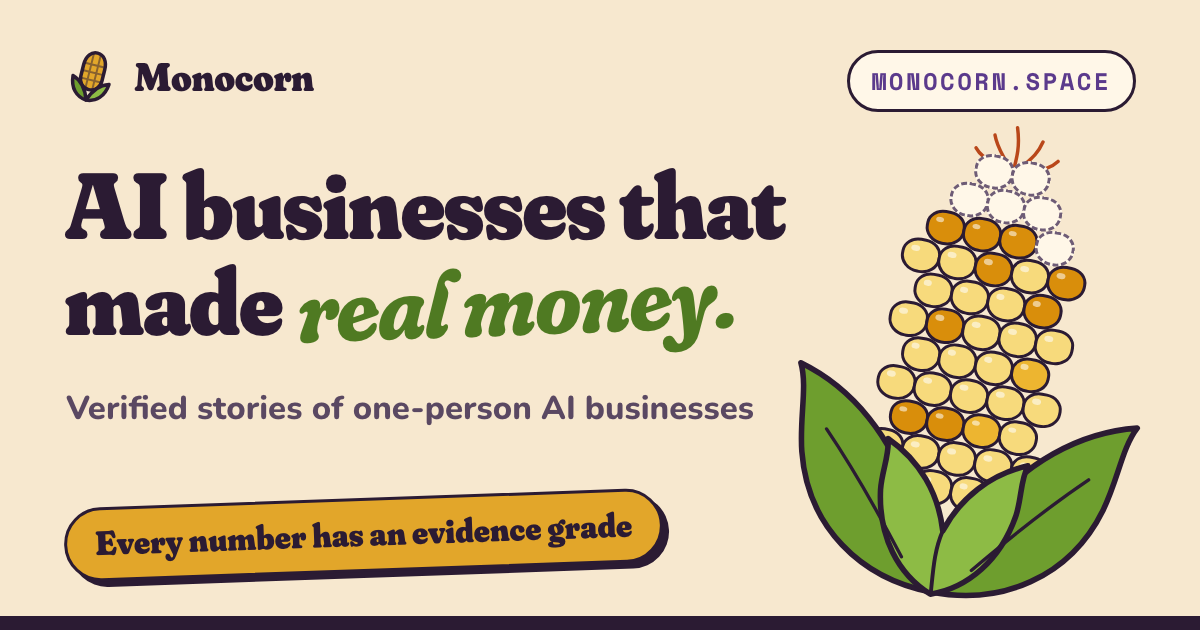
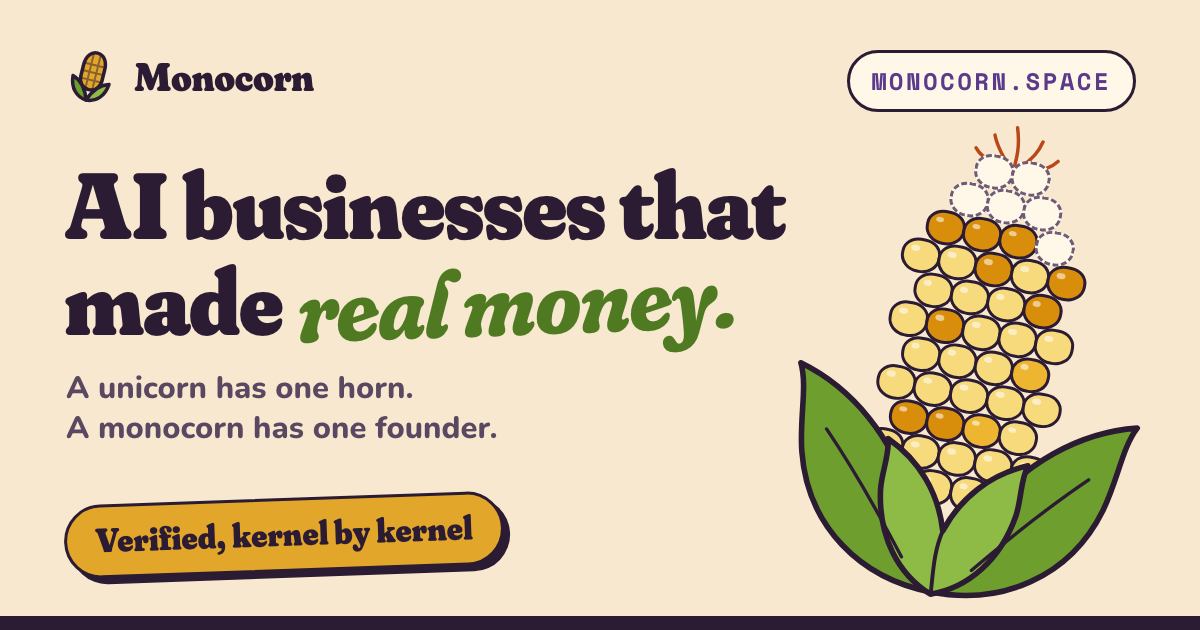
Explain the name: unicorn, mono and corn
New site description and a "why the name" section. Unicorn is Latin
for one horn and copies the Greek monokeros; Monocorn is the same word
with the Greek monos. A unicorn has one horn, a monocorn has one
founder, and the horn is an ear of corn: one seed returns about 800
kernels. Each claim links to its source.

Claude-Session: https://claude.ai/code/session_01Ts6euTGNZG4fyBVVpUkAkK

Changed region(s): [[0.0617, 0.754, 0.555, 0.9349], [0.0308, 0.6032, 0.6475, 0.6937]]

diff --git a/index.html b/index.html
@@ -8,7 +8,7 @@
 <link rel="preconnect" href="https://fonts.googleapis.com">
 <link rel="preconnect" href="https://fonts.gstatic.com" crossorigin>
 <link href="https://fonts.googleapis.com/css2?family=Fraunces:ital,opsz,wght,SOFT,WONK@0,9..144,400..900,0..100,0..1;1,9..144,400..900,0..100,0..1&family=Nunito:wght@400;600;700;800&family=Space+Mono:wght@400;700&display=swap" rel="stylesheet">
-<meta name="description" content="Verified stories of one-person AI businesses. Every number has an evidence grade, and every story is paired with the failed startups that tried the same idea before.">
+<meta name="description" content="A unicorn has one horn. A monocorn has one founder. Verified stories of businesses that one person grew with AI, with an evidence grade on every number.">
 <link rel="icon" href="/favicon.svg" type="image/svg+xml">
 <link rel="icon" href="/favicon-32.png" type="image/png" sizes="32x32">
 <link rel="apple-touch-icon" href="/apple-touch-icon.png">
@@ -16,7 +16,7 @@
 <meta property="og:site_name" content="Monocorn">
 <meta property="og:url" content="https://monocorn.space/">
 <meta property="og:title" content="Monocorn: AI businesses that made real money">
-<meta property="og:description" content="Verified stories of one-person AI businesses. Every number has an evidence grade.">
+<meta property="og:description" content="A unicorn has one horn. A monocorn has one founder. Verified stories of businesses that one person grew with AI, with an evidence grade on every number.">
 <meta property="og:image" content="https://monocorn.space/og.png">
 <meta property="og:image:type" content="image/png">
 <meta property="og:image:width" content="1200">
@@ -24,7 +24,7 @@
 <meta property="og:image:alt" content="Monocorn. AI businesses that made real money. Verified stories of one-person AI businesses.">
 <meta name="twitter:card" content="summary_large_image">
 <meta name="twitter:title" content="Monocorn: AI businesses that made real money">
-<meta name="twitter:description" content="Verified stories of one-person AI businesses. Every number has an evidence grade.">
+<meta name="twitter:description" content="A unicorn has one horn. A monocorn has one founder. Verified stories of businesses that one person grew with AI, with an evidence grade on every number.">
 <meta name="twitter:image" content="https://monocorn.space/og.png">
 <style>
 /* ---------- design tokens ---------- */
@@ -135,6 +135,17 @@ a.kern:hover,a.kern:focus-visible{transform:scale(1.3);z-index:3;box-shadow:3px 
 @media (prefers-reduced-motion:reduce){.kern{transition:none}}
 .hero h1{font-size:clamp(44px,6.4vw,80px)}
 .hero h1 em{color:var(--green);display:inline-block;transform:rotate(-2deg)}
+.name-band .sec-head{max-width:none}
+.name-grid{display:grid;grid-template-columns:repeat(3,minmax(0,1fr));gap:24px;margin-top:8px}
+.name-card{display:flex;flex-direction:column;gap:12px;padding:24px 24px 22px;background:var(--paper);border:2px solid var(--ink);border-radius:var(--r-md);box-shadow:4px 4px 0 var(--ink)}
+.name-card .top{display:flex;align-items:center;gap:14px}
+.name-card svg{width:46px;height:46px;flex:none}
+.name-card .word{font-family:"Fraunces",Georgia,serif;font-weight:900;font-variation-settings:"opsz" 144,"SOFT" 100,"WONK" 1;font-size:34px;line-height:1;color:var(--ink)}
+.name-card .means{color:var(--purple)}
+.name-card p{margin:0;font-size:15px;line-height:1.6;color:var(--body);font-weight:600}
+.name-card .src{margin-top:auto;padding-top:6px;font-size:13px;font-weight:700;color:var(--muted)}
+.name-card .src a{font-weight:800}
+@media (max-width:900px){.name-grid{grid-template-columns:minmax(0,1fr)}}
 .hero .sub{font-size:clamp(17px,1.3vw,19px);line-height:1.55;color:var(--lead);max-width:640px;margin:0;font-weight:600}
 .hero .cta{display:flex;gap:12px;flex-wrap:wrap}
 
@@ -379,7 +390,7 @@ noscript .box{padding:16px;margin:16px}
 
 <footer class="site-foot">
   <div class="wrap">
-    <div class="brand"><b>Monocorn</b><span>Verified one-person AI business success stories.</span><span id="foot-meta"></span></div>
+    <div class="brand"><b>Monocorn</b><span>A unicorn has one horn. A monocorn has one founder.</span><span>Verified stories of businesses that one person grew with AI.</span><span id="foot-meta"></span></div>
     <div class="c1">Every entry is AI-assisted research from public sources: press, company filings, founder posts and reviews. Every number carries an evidence grade. A grade C number is a founder claim that no one else verified. Nothing on this site is investment advice.</div>
     <div class="c2">Failed-startup data comes from an export of the Loot Drop database (loot-drop.io), 1,749 companies. Those records are AI-written summaries and are not independently verified.</div>
   </div>
@@ -7329,12 +7340,37 @@ function renderList() {
       <div class="hero-copy">
         <span class="eyebrow mono">${n} ${plural} on the cob · more coming</span>
         <h1 class="display">AI businesses that made <em class="serif">real money.</em></h1>
-        <p class="sub">Verified stories of one-person AI businesses. Every number carries an evidence grade. Every story is paired with the failed startups that tried the same idea before.</p>
+        <p class="sub">A unicorn is a startup that investors value at more than US$1 billion. A monocorn is what one person grows with AI: smaller, real, and counted kernel by kernel. Every number carries an evidence grade. Every story is paired with the failed startups that tried the same idea before.</p>
         <div class="cta"><a class="btn" href="#/stories">Read the stories</a><a class="btn ghost" href="#/verify">How we verify ${ARROW_R}</a></div>
       </div>
       ${cobHtml()}
     </div></div>
   </section>
+  <div class="wrap">
+    <section class="sec name-band" id="name">
+      <div class="sec-head"><span class="mono accent">Why the name</span><h2 class="display">A unicorn has one horn.<br>A monocorn has one founder.</h2><p class="lead">Monocorn is the word unicorn with the Greek monos, alone, in place of the Latin unus, one. On this site the horn is an ear of corn.</p></div>
+      <div class="name-grid">
+        <div class="name-card">
+          <div class="top"><svg viewBox="0 0 32 32" aria-hidden="true"><rect x="6" y="7" width="20" height="18" rx="8" style="fill:var(--kern-b);stroke:var(--ink)" stroke-width="2"/><ellipse cx="12.5" cy="12" rx="3" ry="1.8" fill="#fff" opacity=".55"/></svg><span class="word">Mono</span></div>
+          <span class="means mono">Greek monos: alone, only</span>
+          <p>One person. Each business on this site was started by one founder or by a very small team. Every story states the size of the team next to its headline number.</p>
+          <span class="src">Source: <a href="https://en.wiktionary.org/wiki/%CE%BC%CF%8C%CE%BD%CE%BF%CF%82" target="_blank" rel="noopener">Wiktionary</a></span>
+        </div>
+        <div class="name-card">
+          <div class="top"><svg viewBox="0 0 32 32" aria-hidden="true"><path d="M16 2.5L22.6 26.6Q16 30.4 9.4 26.6Z" style="fill:var(--purple-soft);stroke:var(--ink)" stroke-width="2" stroke-linejoin="round"/><path d="M13.6 11.6l5.6 2.6M12.3 16.6l8.3 3.6M11 21.8l10.6 4.2" fill="none" style="stroke:var(--ink)" stroke-width="1.6" stroke-linecap="round"/></svg><span class="word">Unicorn</span></div>
+          <span class="means mono">Latin unus and cornu: one horn</span>
+          <p>The animal with one horn. The Latin word copies the Greek monokeros. Since 2013 it also means a startup that investors value at more than US$1 billion. The article that began this use counted 39 of them, about 0.07% of funded software startups.</p>
+          <span class="src">Sources: <a href="https://en.wiktionary.org/wiki/unicorn" target="_blank" rel="noopener">Wiktionary</a> · <a href="https://techcrunch.com/2013/11/02/welcome-to-the-unicorn-club/" target="_blank" rel="noopener">TechCrunch, 2013</a></span>
+        </div>
+        <div class="name-card">
+          <div class="top"><svg viewBox="0 0 32 32" aria-hidden="true"><g transform="rotate(14 16 16)"><path d="M16 2.5c3.7 0 6.2 3.4 6.2 8.3v6.6c0 4-2.5 6.6-6.2 6.6s-6.2-2.6-6.2-6.6v-6.6c0-4.9 2.5-8.3 6.2-8.3z" style="fill:var(--mustard);stroke:var(--ink)" stroke-width="2"/><path d="M10.4 9.6h11.2M9.9 14h12.2M10.2 18.4h11.6M14 3.6v19.8M18 3.6v19.8" fill="none" style="stroke:var(--ink)" stroke-width="1.1" opacity=".5"/><path d="M16 30.2c-5.8-.5-10-4.6-10.6-11.9 4.2 1.3 8.4 5 10.6 11.9z" style="fill:var(--husk);stroke:var(--ink)" stroke-width="2" stroke-linejoin="round"/><path d="M16 30.2c5.8-.5 10-4.6 10.6-11.9-4.2 1.3-8.4 5-10.6 11.9z" style="fill:var(--husk-2);stroke:var(--ink)" stroke-width="2" stroke-linejoin="round"/></g></svg><span class="word">Corn</span></div>
+          <span class="means mono">Old English corn: grain</span>
+          <p>A different word that looks the same. One seed grows one plant, and a typical ear holds about 800 kernels. AI can do the same for the work of one person. Each kernel on our cob is one business where it did, with the money checked.</p>
+          <span class="src">Sources: <a href="https://en.wiktionary.org/wiki/corn" target="_blank" rel="noopener">Wiktionary</a> · <a href="https://www.iowacorn.org/education/faqs" target="_blank" rel="noopener">Iowa Corn</a></span>
+        </div>
+      </div>
+    </section>
+  </div>
   <div class="wrap">
     <section class="sec" id="stories">
       <div class="controls">
